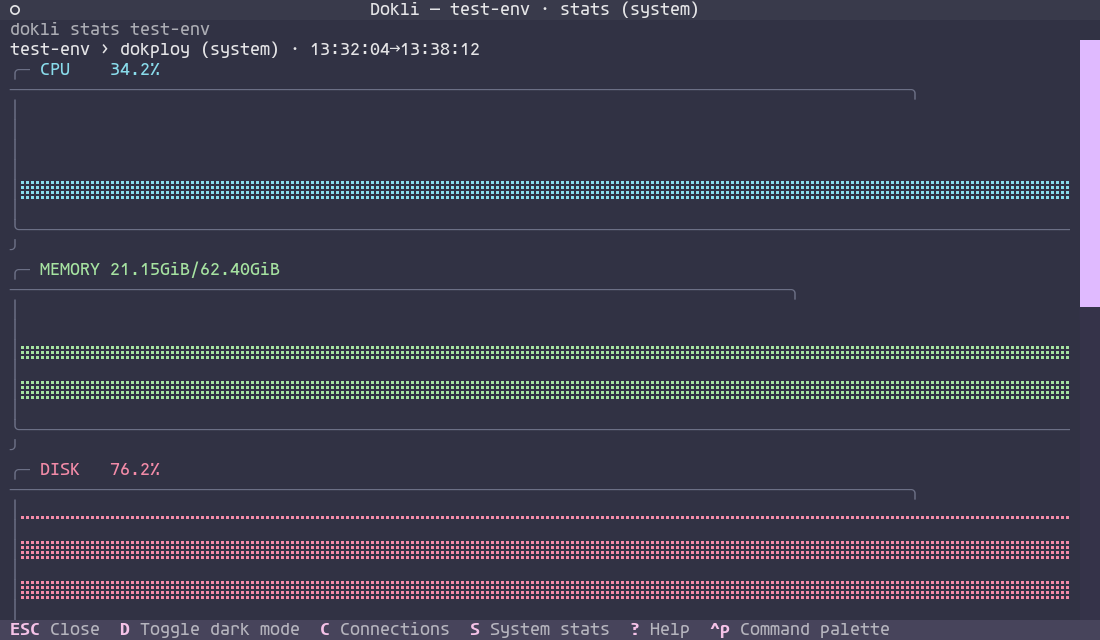
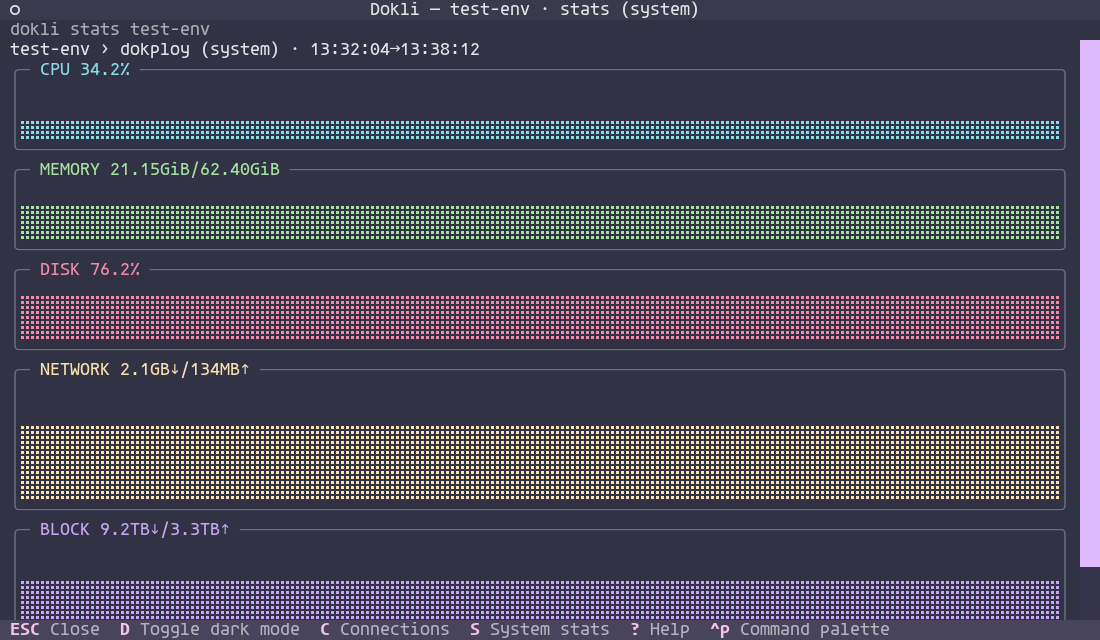
DOKLI-99-f1: tui: stable stats width, compact labels, horizontal scroll The stats Static has padding 0 1 and the scroll container reserved a column for its scrollbar, so the usable width was unstable (108 -> 106 when the content overflowed) and the CLI's boxes wrapped on small consoles, skewing the 

diff --git a/dokli/tui/screens/stats.py b/dokli/tui/screens/stats.py
@@ -76,7 +76,7 @@ class StatsScreen(Screen):
 
     CSS = """
     #stats-hint { padding: 0 1; color: $text-muted; }
-    #stats-scroll { height: 1fr; }
+    #stats-scroll { height: 1fr; overflow-x: auto; scrollbar-gutter: stable; }
     #stats-output { padding: 0 1; }
     """
 
@@ -135,7 +135,8 @@ class StatsScreen(Screen):
         argv = [sys.executable, "-m", "dokli", *stats_argv(self.connection.name, self.kind, self.ident)]
         while True:
             self._buffer = ""
-            await asyncio.to_thread(self._spawn_pty, argv)
+            width = self._stats_width()
+            await asyncio.to_thread(self._spawn_pty, argv, width)
             # Re-armed? The child exited because of a dark/light toggle.
             if not self._restart:
                 break
@@ -156,7 +157,7 @@ class StatsScreen(Screen):
         """The environment for the stats CLI, signaling the active theme."""
         return {**os.environ, "DOKLI_THEME": "dark" if dark else "light"}
 
-    def _spawn_pty(self, argv: list[str]) -> None:
+    def _spawn_pty(self, argv: list[str], width: int) -> None:
         """Spawn ``dokli stats`` on a pty and render its redraw stream.
 
         Blocks until the child exits; each chunk refreshes the frame through
@@ -164,7 +165,7 @@ class StatsScreen(Screen):
         """
         master, slave = pty.openpty()
         self._master = master
-        self._sync_pty_size()
+        self.set_winsize(master, max(10, self.size.height or 24), max(20, width))
         self._buffer = ""
         self._decoder = codecs.getincrementaldecoder("utf-8")(errors="replace")
         env = StatsScreen._spawn_env(self.app.dark)
@@ -200,17 +201,20 @@ class StatsScreen(Screen):
             os.close(master)
             self._master = None
 
-    def _sync_pty_size(self) -> None:
-        """Push the app's current size to the stats pty, so the CLI reflows.
+    def _stats_width(self) -> int:
+        """The usable content width of the stats output (main thread only)."""
+        try:
+            output = self.query_one("#stats-output", Static)
+            width = output.content_size.width
+        except Exception:
+            width = (self.size.width or 80) - 4
+        return max(20, width)
 
-        The CLI renders boxes ``width - 2`` wide; the ``#stats-output`` Static
-        has ``padding: 0 1`` and the scroll container may reserve a column for
-        its scrollbar, so the usable content width is ``size.width - 3``.
-        """
+    def _sync_pty_size(self) -> None:
+        """Re-apply the current content width to the stats pty on resize."""
         if self._master is None:
             return
-        width = max(20, (self.size.width or 80) - 3)
-        self.set_winsize(self._master, max(10, self.size.height or 24), width)
+        self.set_winsize(self._master, max(10, self.size.height or 24), self._stats_width())
 
     @staticmethod
     def set_winsize(master: int, rows: int, columns: int) -> None:

diff --git a/tools/screenshots.py b/tools/screenshots.py
@@ -243,7 +243,7 @@ def _sgr(hex_color: str) -> str:
 def _stats_box(name: str, label: str, rows: list[str], color: str, border: str) -> list[str]:
     """One metric box: top border (label in color), braille rows, bottom border."""
     inner = len(rows[0]) if rows else 0
-    label_text = f"{name.upper():6s} {label}"
+    label_text = f"{name.upper()} {label}"
     fill = max(0, inner + 2 - len("╭─ ") - len(label_text) - len(" ╮"))
     lines = [f"{_sgr(border)}╭─ \x1b[0m{_sgr(color)}{label_text}\x1b[0m{_sgr(border)} {'─' * fill}╮\x1b[0m"]
     for row in rows:
@@ -260,11 +260,11 @@ def _stats_frame() -> str:
     """
     border = BORDER_COLOR
     colors = METRIC_COLORS
-    # The Static has ``padding: 0 1`` and the scroll container reserves a
-    # scrollbar column, so usable content width is SIZE width minus 3; a box
-    # line (│ … │) must be exactly that wide or Textual wraps it and the
+    # The Static has ``padding: 0 1`` and the scroll container keeps a stable
+    # scrollbar gutter, so the usable content width is SIZE width minus 4; a
+    # box line (│ … │) must be exactly that wide or Textual wraps it and the
     # borders step ("skewed") line by line.
-    inner = SIZE[0] - 5  # content width (107) minus the two border columns.
+    inner = SIZE[0] - 6  # content width (106) minus the two border columns.
     cols = inner * 2  # one braille cell renders two sample columns.
 
     single = (

diff --git a/dokli/stats_cli.py b/dokli/stats_cli.py
@@ -411,7 +411,7 @@ def _print_metric_box(
     distinguishable. Returns the number of lines printed (top + graph + bottom).
     """
     border = border_color
-    label_text = f"{name.upper():6s} {label}"
+    label_text = f"{name.upper()} {label}"
     fill = max(0, inner_width + 2 - len("╭─ ") - len(label_text) - len(" ╮"))
     _console.print(f"[{border}]╭─ [/][{color}]{label_text}[/][{border}] {'─' * fill}╮[/]", soft_wrap=True)
     rows = spark.split("\n") or [""]
